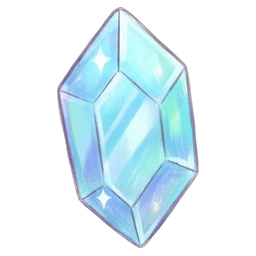
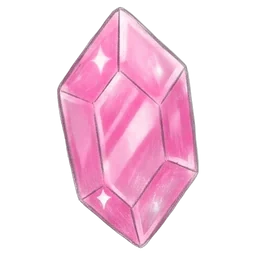
Build 293: pink crystal in «Зельеварка» (her «Мне в зельеварке не нравится что два значка синего цвета, путаешь их»; her pick «А: розовый» of 3 hue-shift variants, art/minigame/recolor/compare.jpg, tools/recolor_crystal.py, no tokens): the crystal tile is pink now, its sparkles too; ART_V 2 so phone

diff --git a/js/game.js b/js/game.js
@@ -2,9 +2,9 @@
 import {
   OFFLINE_CAP_SEC, MAX_DESKS, MAX_ITEM_LEVEL, MAX_TEACHER_LEVEL, MAX_TIME_LEVEL,
   CLASSES, SPECIES, NAMES, MISSIONS, WORLDS, WORLD, META,
-} from './data.js?v=292';
-import { EMOJI_RE, emojiImage, preloadEmoji, watchEmoji, emojiHtml } from './emoji.js?v=292';
-import { initMinigame } from './minigame.js?v=292';
+} from './data.js?v=293';
+import { EMOJI_RE, emojiImage, preloadEmoji, watchEmoji, emojiHtml } from './emoji.js?v=293';
+import { initMinigame } from './minigame.js?v=293';
 // mini-game «Зельеварка» (match-3, js/minigame.js): a pill on the main screen, its own overlay; the school keeps living under it
 const MG = initMinigame({ state: () => S, earn: (n) => earn(n), save: () => save(), toast: (t) => toast(t), fmt: (n) => fmt(n), emojiHtml, emojiImage,
   audioOut: () => { if (!sfxOn() || document.hidden) return null; const c = audio(); return c && c.state === 'running' ? { c, out: AOUT } : null; },
@@ -15,7 +15,7 @@ const MG = initMinigame({ state: () => S, earn: (n) => earn(n), save: () => save
 const SAVE_KEY = WORLD === 1 ? 'magicschool.save.v2' : 'magicschool.save.v2.w' + WORLD;   // every world keeps its own save
 const saveKeyOf = (w) => (w === 1 ? 'magicschool.save.v2' : 'magicschool.save.v2.w' + w);
 const VERSION = '0.9';
-const BUILD = 292;   // keep equal to the ?v= number in index.html
+const BUILD = 293;   // keep equal to the ?v= number in index.html
 const $ = (s, r = document) => r.querySelector(s);
 const rnd = (a) => a[Math.floor(Math.random() * a.length)];
 

diff --git a/index.html b/index.html
@@ -12,7 +12,7 @@
 <link rel="manifest" href="manifest.webmanifest">
 <link rel="apple-touch-icon" href="icons/icon-180.png?v=2">
 <link rel="icon" href="icons/icon-192.png?v=2">
-<link rel="stylesheet" href="style.css?v=292">
+<link rel="stylesheet" href="style.css?v=293">
 <script>/* iOS home-screen app: innerHeight / 100% / 100dvh are short by the status bar, a strip stayed at the bottom (her screenshots, builds 200-203); use the real screen height */
 (function(){function fit(){if(!(navigator.standalone||matchMedia('(display-mode: standalone)').matches))return;var h=Math.max(window.innerHeight,(Math.abs(window.orientation||0)===90?screen.width:screen.height));var r=document.documentElement;r.style.height=h+'px';if(document.body){document.body.style.height=h+'px';document.body.style.bottom='auto';}}fit();addEventListener('DOMContentLoaded',fit);addEventListener('resize',fit);addEventListener('orientationchange',function(){setTimeout(fit,300);});})();</script>
 </head>
@@ -41,6 +41,6 @@ setTimeout(function(){ if (window.__booted) return; var d=document.createElement
   d.querySelector('button').onclick=function(){ location.reload(); }; document.body.appendChild(d); }, 12000);
 if(!CanvasRenderingContext2D.prototype.roundRect){CanvasRenderingContext2D.prototype.roundRect=function(x,y,w,h){this.rect(x,y,w,h);};}
 </script>
-<script type="module" src="js/game.js?v=292"></script>
+<script type="module" src="js/game.js?v=293"></script>
 </body>
 </html>

diff --git a/js/minigame.js b/js/minigame.js
@@ -11,12 +11,12 @@ const STAR = [2000, 3500, 5500];  // score for 1/2/3 stars (calibrated with tool
 const MAX_MIN = 10;               // the best round pays 10 minutes of the school's income
 const BOOST = [0, 0, 5, 10];      // minutes of «Вдохновение» per stars
 const BOOST_CAP_MIN = 60;         // same cap as gifts (BOOST_MAX_MIN in game.js)
-const ART_V = 1;
+const ART_V = 2;   // 2: pink crystal (her «два значка синего цвета, путаешь их»)
 
 export const ING = [   // ingredient tiles; art: assets/minigame/ing_<i>.png (falls back to the emoji until the art exists)
   { e: '🌿', name: 'Мята', col: '#5cbf6a' },
   { e: '🍄', name: 'Гриб-светлячок', col: '#e0705a' },
-  { e: '💎', name: 'Кристалл', col: '#58c6e0' },
+  { e: '💎', name: 'Кристалл', col: '#ec5fa0' },   // pink since build 290 (blue crystal was confused with the dew drop)
   { e: '🪶', name: 'Перо феи', col: '#b78ae8' },
   { e: '💧', name: 'Роса', col: '#5a8ff0' },
   { e: '⭐', name: 'Звёздная пыль', col: '#f2c03a' },

diff --git a/js/emoji.js b/js/emoji.js
@@ -1,6 +1,6 @@
 // One emoji look on every device: emoji characters are replaced by bundled Twemoji pictures
 // (CC-BY 4.0, https://github.com/jdecked/twemoji), both in the page (DOM) and on the canvas.
-import { EMOJI_FILES } from './emoji-set.js?v=292';
+import { EMOJI_FILES } from './emoji-set.js?v=293';
 
 export const EMOJI_RE = /\p{Extended_Pictographic}(?:|\p{Extended_Pictographic}?|[\u{1F3FB}-\u{1F3FF}])*/gu;
 
